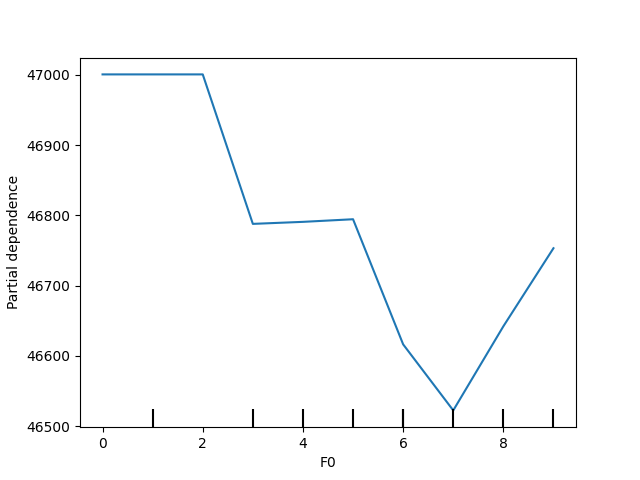
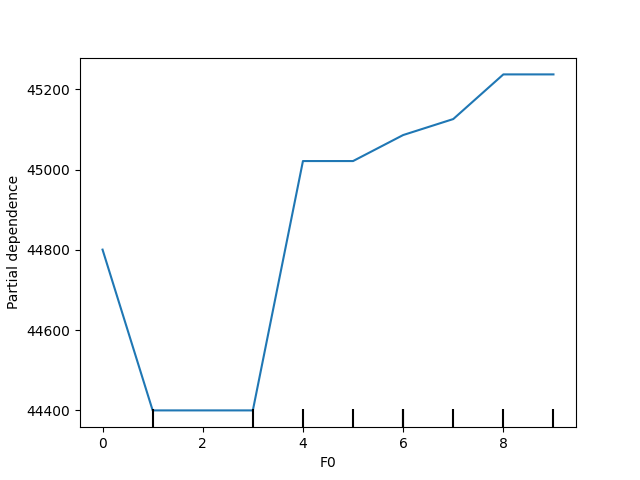
Pring
2024-03-11

Hacked by Howie

diff --git a/core/model/train_model.py b/core/model/train_model.py
@@ -13,12 +13,16 @@ def train_model(training_features, training_target, model_name, model="Decision_
         # feature_min_ = feature.min(axis=0)
         # target_max_ = target.max(axis=0)
         # target_min_ = target.min(axis=0)
-        # X_train = feature.sample(frac=0.7)
-        # X_valid = feature.drop(X_train.index)
-        # Y_valid = target.drop(X_train.index)
-        # Y_train = target.drop(Y_valid.index)
-        X_train = feature
-        Y_train = target
+        X_train = feature.sample(frac=0.7)
+        X_train = X_train.sort_index()
+        X_valid = feature.drop(X_train.index)
+        X_valid = X_valid.sort_index()
+        Y_valid = target.drop(X_train.index)
+        Y_valid = Y_valid.sort_index()
+        Y_train = target.drop(Y_valid.index)
+        Y_train = Y_train.sort_index()
+        # X_train = feature
+        # Y_train = target
         # X_train = (X_train - feature_min_) / (feature_max_ - feature_min_)
         # X_valid = (X_valid - feature_min_) / (feature_max_ - feature_min_)
         # Y_train = (Y_train - target_min_) / (target_max_ - target_min_)
@@ -27,9 +31,9 @@ def train_model(training_features, training_target, model_name, model="Decision_
         model = DecisionTreeRegressor()
         model.fit(X_train, Y_train)
         from sklearn.metrics import mean_absolute_error
-        predicted = model.predict(X_train)
+        predicted = model.predict(X_valid)
         pickle.dump(model, open(f"data/model/{model_name}", 'wb'))
-        return f"success! mean absolute error : {mean_absolute_error(Y_train, predicted)}"
+        return f"success! mean absolute error : {mean_absolute_error(Y_valid, predicted)}"
     else:
         return ValueError(f"Model not found : \"{model_name}\"")
     
